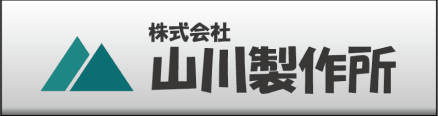
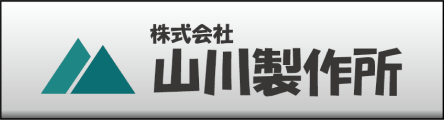
signBoardimport

diff --git a/src/components/nav/start/NavSelect.tsx b/src/components/nav/start/NavSelect.tsx
@@ -69,8 +69,8 @@ const styles = StyleSheet.create({
     height: 70,
   },
   signboard: {
-    width: 219,
-    height: 58,
+    width: 222,
+    height: 60,
     marginHorizontal: 14,
   },
   nextButton: {
